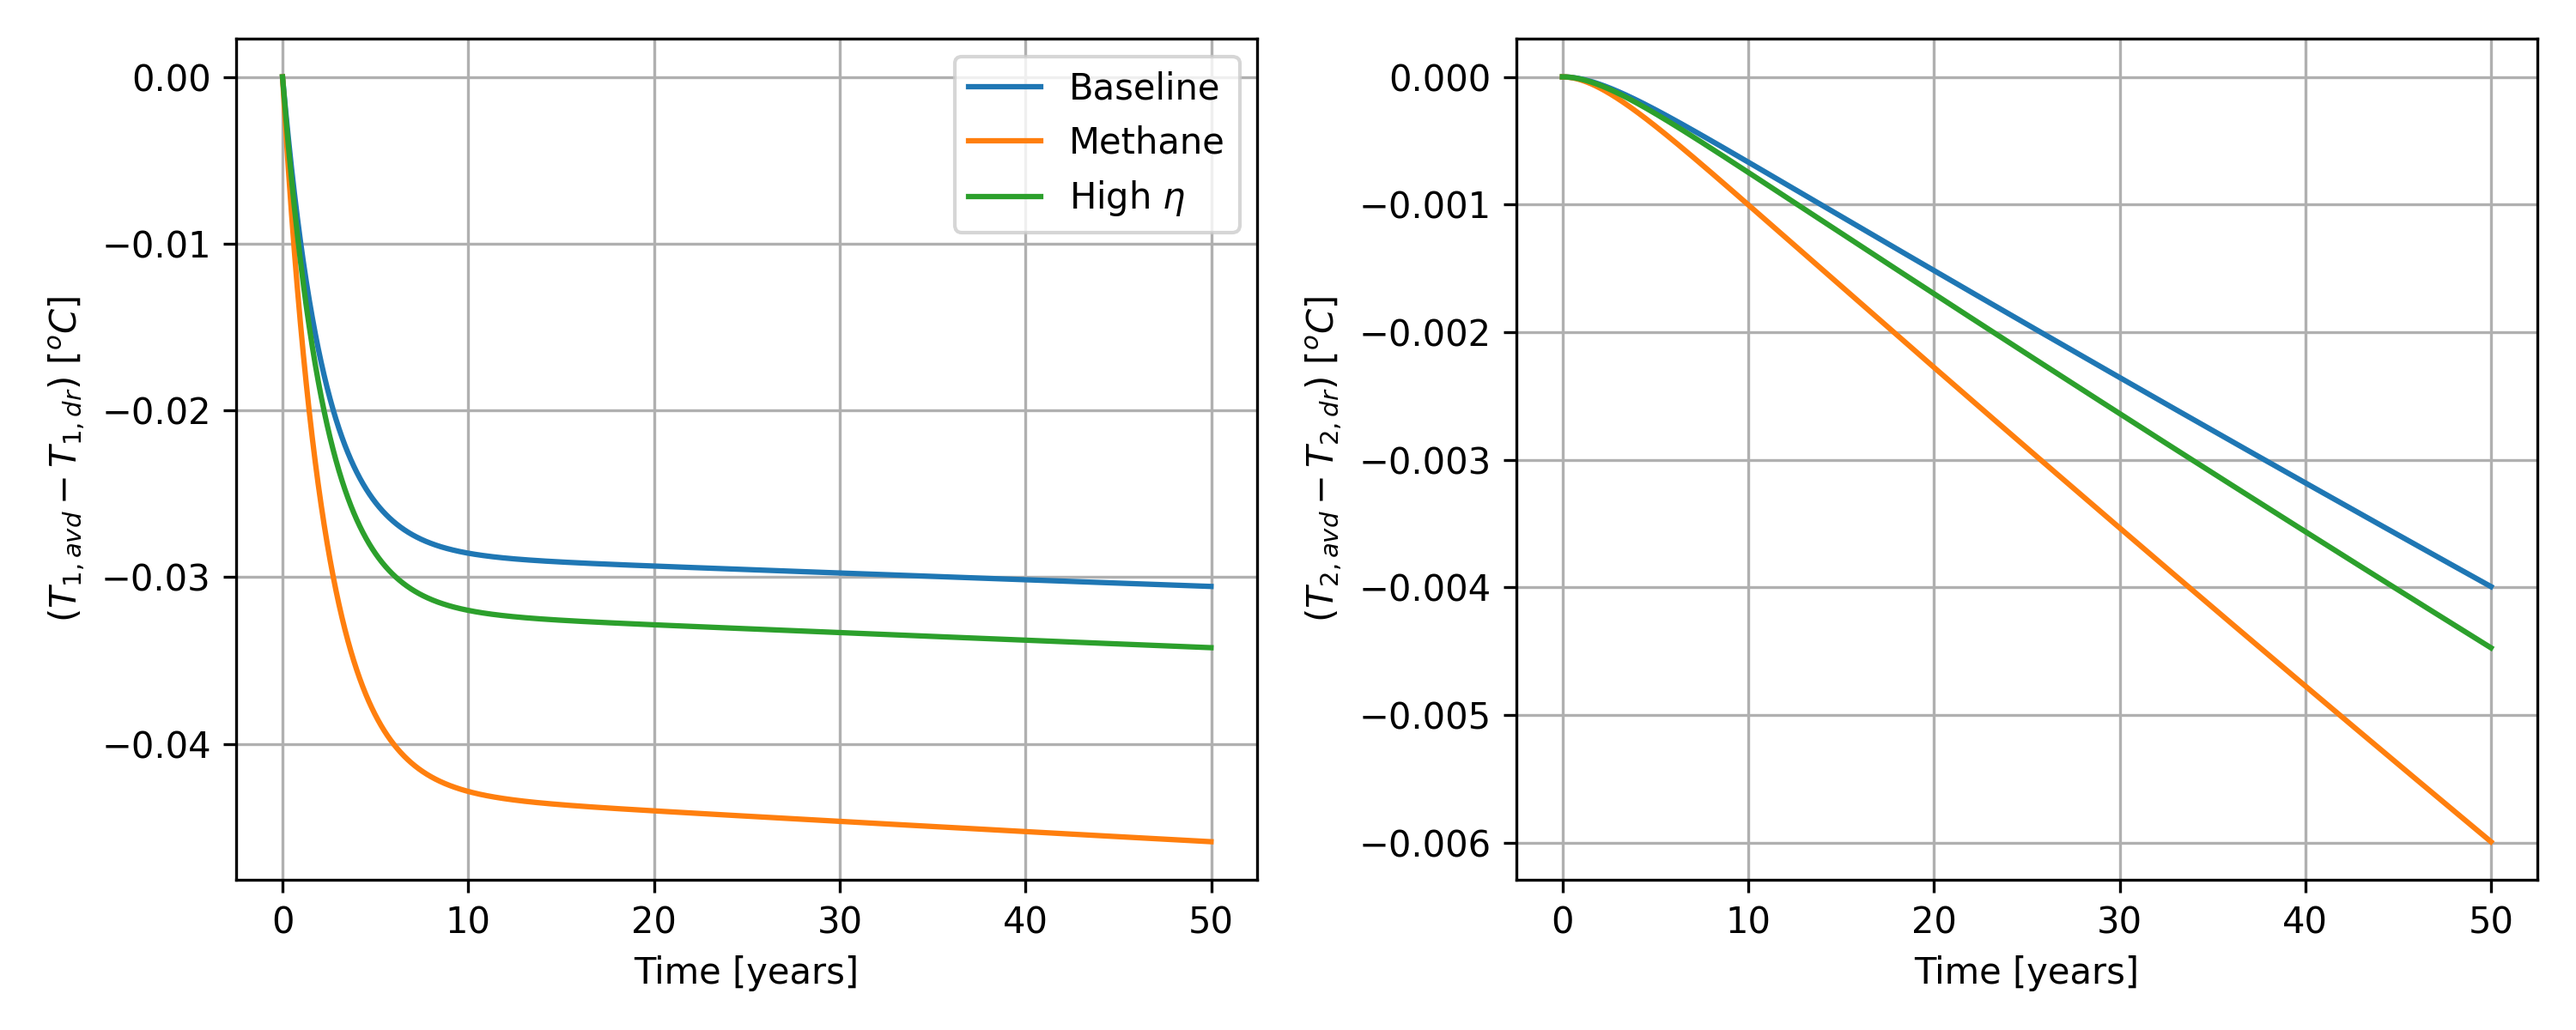
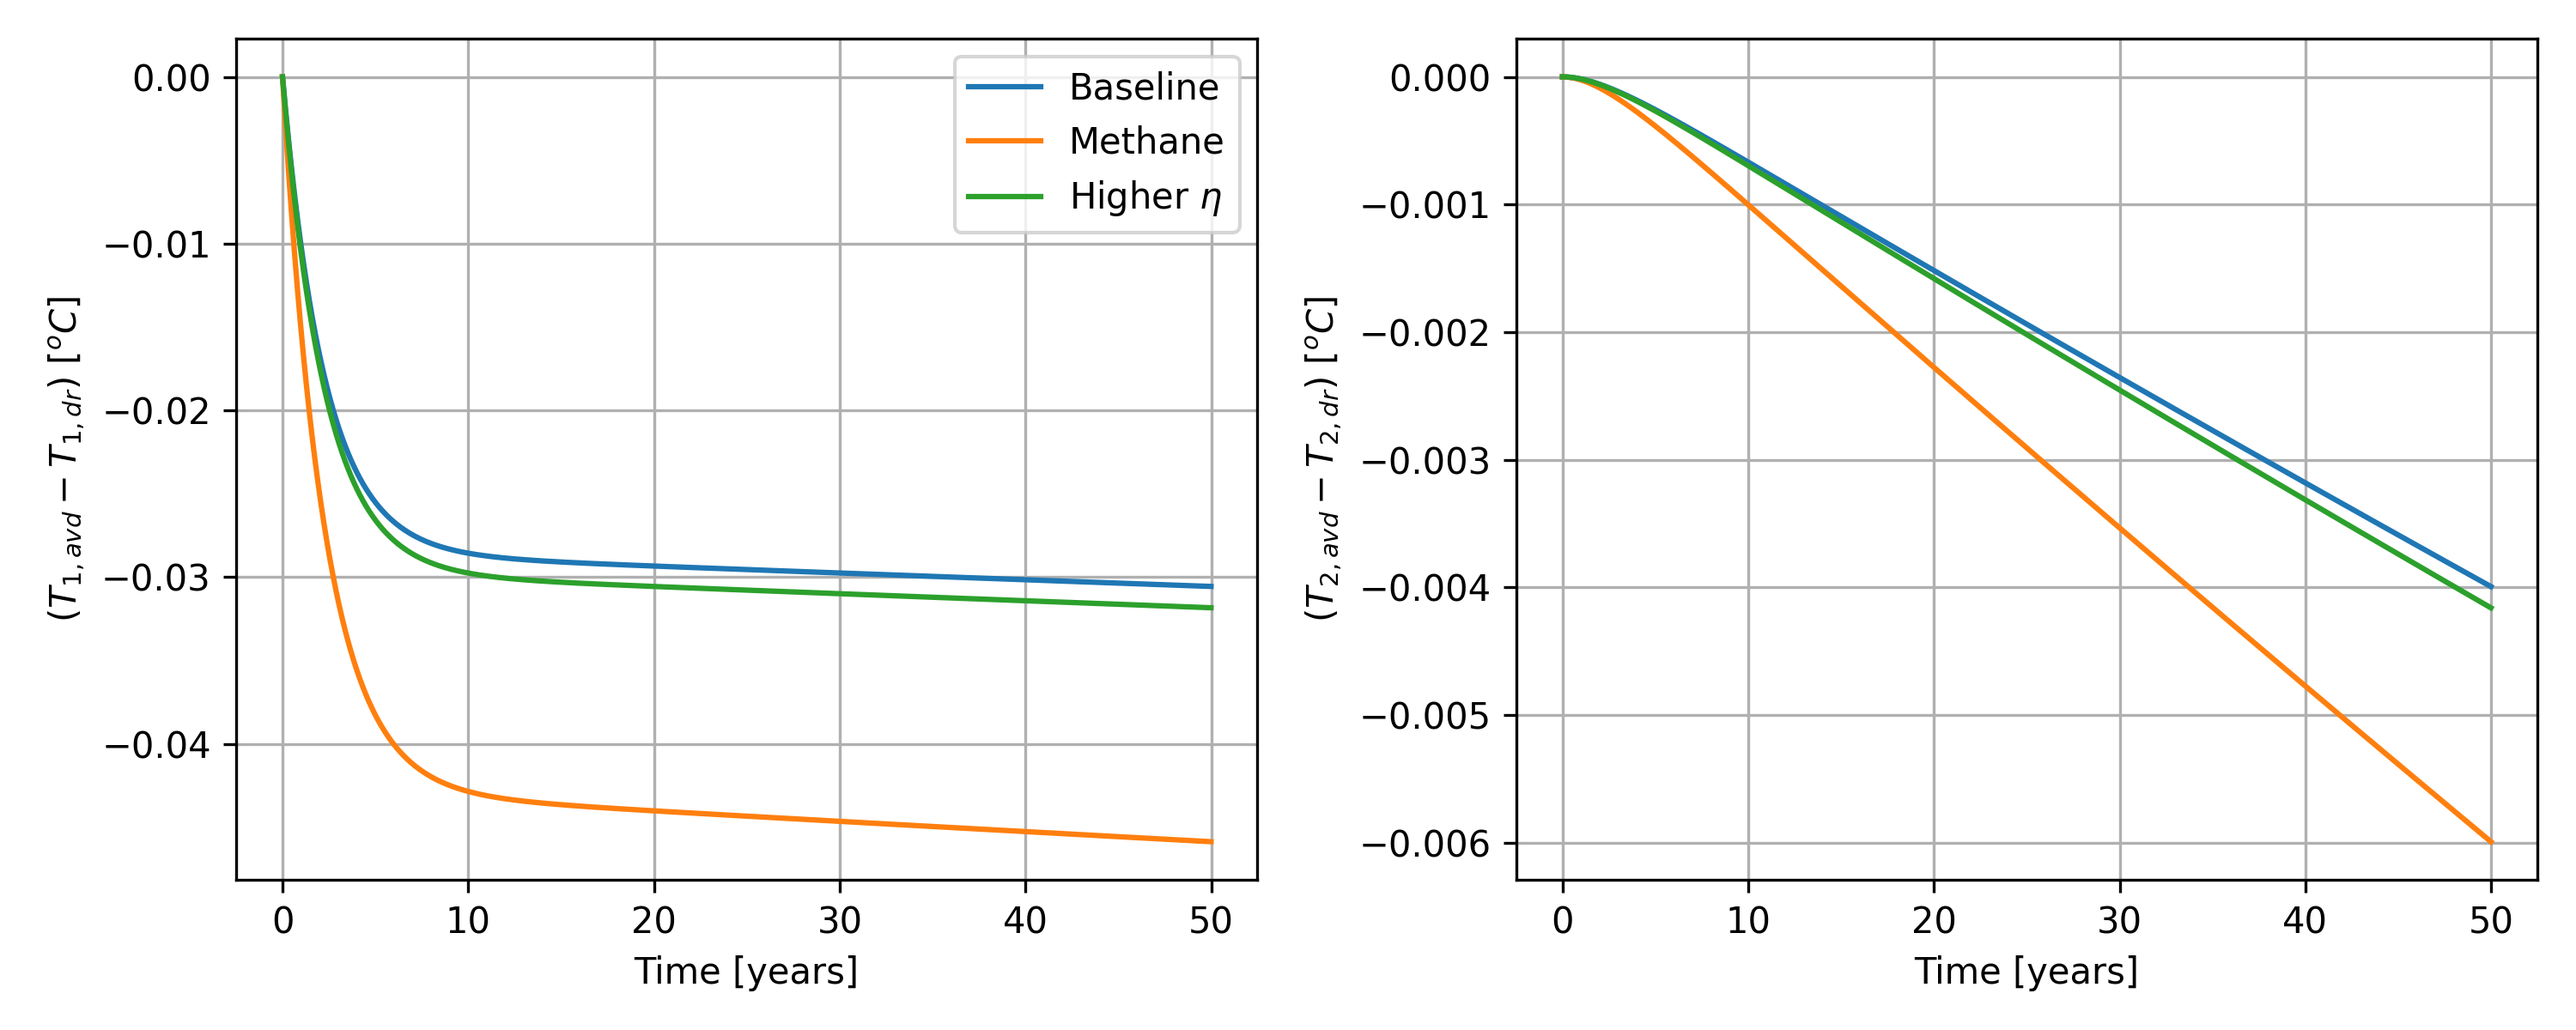
worst report ive ever written

diff --git a/IIB/4A7/contrail_avoidance/report.tex b/IIB/4A7/contrail_avoidance/report.tex
@@ -37,6 +37,8 @@
 
 \section{Introduction}
 % evaluate the net climate impact of contrail avoidance
+Understanding the role of aviation on climate impact is vital as it plays a significant contribution to global warming.
+Simple models can provide insight into large scale effects on climate and will be used here to analyse the effectiveness of contrail avoidance. 
 
 \section{Objectives}
 
@@ -49,7 +51,7 @@
 \subsection{Cases}
 
 \begin{itemize}
-    \item Baseline case, contrail avoidance with current aircraft fleet
+    \item Baseline case, contrail avoidance with current aircraft fleet.
     \item If the aircraft fleet is assumed to instead be fueled by liquified natural gas (LNG), which is taken to be methane
     \item If the gas turbines powering the fleet have a higher thermal efficiency (by an amount of your choosing) 
 \end{itemize}
@@ -64,9 +66,10 @@ The kerosene fuel burned by aircraft contains a mixture of alkanes of varying ca
 The combustion of each of these alkanes can be weighted by concentration to obtain an overall
 emissions index of 3.15 in units mass of $CO_2$ per mass of kerosene fuel burned.
 To get the total mass of fuel burn its required to know the flight paths and fuel burn rates for all aircraft.
-This simply wasn't possible for all aircraft and times and so a months commercial flights dataset from EUROCONTROL [?] was used with a smaller list of aircraft fuel burn rates (kg/km) from wikipedia [?].
+This simply wasn't possible for all aircraft and times and so a months commercial flights dataset from EUROCONTROL [?] was used with a smaller list of aircraft cruise fuel burn rates (kg/km) from wikipedia [?].
 A correction factor was used to extrapolate the mass of fuel burned for unknown aircraft which was the ratio of total distance flown by all aircraft to aircraft of known fuel burn rate.
 The CO2 emissions from flight was then estimated to be 0.31 Gt/Year.
+Avoidance will come at a cost of an additional 1\% fuel consumption, compared to direct flight passing through the contrails.
 
 The radiative forcing due to aircraft emissions of greenhouse gases can be estimated using the following simplified method.
 In literature common units for carbon coming into or going out of the atmosphere is billions of tons of carbon per year ($\text{GtCyr}^{-1}$)
@@ -85,12 +88,14 @@ Radiative forcing can be estimated using a relation by G. Myhre \cite{rf_greenho
 This term adds a nonlinearity to the system of equations and is the reason for solving them numerically.
 
 \begin{equation}
-    \text{RF}_{\text{CO}_2} = 5.35 \ln \left( \frac{C}{C_0} \right)
+    \text{RF}_{\text{CO}_2} = 5.35 \ln \left( \frac{C}{C_0} \right) \label{eq:rfco2}
 \end{equation}
+
+Additional net radiative forcing due to NOx emissions is estimated by D.S. Lee et al. at $17.5mW/m^2$
 
 \subsection{Contrails}
 
-The radiative forcing due to contrails is extrapolated from the work of D.S. Lee et al. \cite{contrail_radiative_forcing}.
+The radiative forcing due to contrails is also taken from the work of D.S. Lee et al. \cite{contrail_radiative_forcing}.
 An effective radiative forcing is taken as 57.4 mWm$^{-2}$.
 
 
@@ -111,20 +116,22 @@ The values of these are set in table \ref{tab:temp_model_params}.
 
 \begin{table}[H]
     \centering
-    \begin{tabular}{ccc}
+    \begin{tabular}{cccc}
         \hline
-        Parameter & Value & Unit \\
+        Parameter & Value & Unit & Source\\
         \hline
-        $T_0$ & 288 & $^\circ K$ \\
-        $\lambda$ & 1.0 & $W/m^2K$ \\
-        $k_m$ & 1.0 & $W/m^2K$ \\
-        $C_1$ & $7.4\times 10^{22}$ & J/K \\
-        $C_2$ & $5.3\times 10^{24}$ & J/K \\
+        $T_0$ & 288 & $^\circ K$ & \\
+        $\lambda$ & 1.0 & $W/m^2K$ & \\
+        $k_m$ & 1.0 & $W/m^2K$ & \\
+        $C_1$ & $7.4\times 10^{22}$ & J/K & $\rho c_p A_o \cdot 50$  \\
+        $C_2$ & $5.3\times 10^{24}$ & J/K & $\rho c_p A_o \cdot (D_o - 50) \footnotemark $\\
         \hline
     \end{tabular}
     \caption{Temperature model parameters}
     \label{tab:temp_model_params}
 \end{table}
+
+\footnotetext{$A_o$ is area of earths oceans, $D_o$ is average ocean depth}
 
 AGWP can quantify cumulative radiative forcing.
 AGTP can quantify the cumulative impact of increased temperatures such as changes in ecosystems and sea levels.
@@ -141,7 +148,7 @@ This means a smaller emissions penalty of additional fuel consumption by avoidin
 
 The Schmidt-Appleman criterion predicts contrails form if the mixture of exhaust gases and ambient air
 transiently reaches or surpasses saturation with respect to liquid water.
-It can be shown that the gradient of the mixing line is proportional to the $H_2O$ emissions index (ratio of mass $H_2O$ released per kg fuel burned) and inversely proportional to $LCV$ \ref{eq:SAC_gradient}.
+It can be shown that the gradient of the mixing line is proportional to the $H_2O$ emissions index (ratio of mass $H_2O$ released per kg fuel burned) and inversely proportional to $LCV$ (Equation \ref{eq:SAC_gradient}).
 Methane has a slightly higher calorific value $LCV$ ($50MJ/kg$) than kerosine ($43MJ/kg$) however the water vapour emissions index of methane (2.25) is significantly higher than kerosine (1.29).
 By aligning this increased gradient to the saturation curve shows that contrails can form at higher temperatures.
 Hence, more contrails form and cause a larger net radiative forcing making their avoidance more important.
@@ -150,7 +157,7 @@ However, to estimate the increased radiative forcing, the previous value by D.S.
 of mixing line gradients.
 
 \begin{equation}
-    G = \frac{P EI_{H_2O} c_p}{\epsilon LCV (1-\eta)} \label{eq:SAC_gradient}
+    G = \frac{P \cdot EI_{H_2O} \cdot c_p}{\epsilon \cdot LCV \cdot (1-\eta)} \label{eq:SAC_gradient}
 \end{equation}
 
 Where P is static pressure, $c_p$ is specific heat capacity, $\epsilon = M_{H_2O}/M_{air} = 0.622$, $LCV$ is lower calorific value, and $\eta$ is thermal efficiency.
@@ -161,6 +168,8 @@ A higher thermal efficiency reduces amount of fuel required for a flight, reduci
 However, it also reduces the term $(1-\eta)$ which G is inversely proportional and so the SAC mixing curve gradient increases.
 Again this means that more contrails form and so avoidance may be more worthwhile for aircraft of higher thermal efficiency.
 
+An increase in thermal efficiency from 0.5 to 0.52 will be considered.
+This may seem very small but actually represents a significant advancement from current technology.
 To estimate the increased radiative forcing the same technique as before where the value by D.S. Lee et al. was multiplied by the ratio
 of mixing line gradients.
 
@@ -170,13 +179,22 @@ of mixing line gradients.
 Many assumptions and simplifications were made to perform the above analysis.
 The validity of these are discussed with reference to more advanced models.
 
-\subsubsection{Models}
+Emissions
+\begin{itemize}
+    \item Kersoine fuel is free of impurities and has an CO2 emissions index of 3.15
+    \item Emissions from production of fuel not considered but could be significant.
+    \item Flight data for the month of June 2020 can be extrapolated to future annual flights and will remain the same (ie no growth of aircraft fleet).
+    \item Fuel burn rate during takeoff, landing and other control sequences is equal to cruise.
+    \item Aircraft of unknown fuel burn rates have a similar average rate to the set of known aircraft.
+    \item Emissions from military and space agencies are small compared to civil flight.
+    \item The 'one tank model' by R. H. Socolow et al. is not accurate when C(t) is stabilized or nearly stabilized \cite{co2_modelling}.
+\end{itemize}
 
-The 
-A number of assumptions were made in the calculation of fuel burn
-Liquid natural gas only assumed to be methane
-
-\subsubsection{Values}
+Radiative forcing and temperature modelling.
+\begin{itemize}
+    \item The equation to calculate radiative forcing from CO2 concentration in the atmosphere is given by equation \ref{eq:rfco2}.
+    \item The radiative forcing for contrail formation scales with gradient of SAC mixing line gradient, G.
+\end{itemize}
 
 % a list of all referenced models used in the report
 % full description of model assumptions, limitations, and validation
@@ -197,21 +215,52 @@ Liquid natural gas only assumed to be methane
 \begin{figure}[H]
     \centering
     \includegraphics[width=0.8\textwidth]{figures/model.png}
-    \caption{Model results for linearly decreasing emissions to net zero by 2050}
+    \caption{Model results for linearly decreasing CO2 emissions to 0 by 2050}
+    \label{fig:model}
 \end{figure}
-
 
 \begin{figure}[H]
     \centering
-    \includegraphics[width=0.9\textwidth]{figures/avoidance_comparison.png}
-    \caption{Impact of global contrail avoidance for the various cases}
+    \includegraphics[width=0.8\textwidth]{figures/case_comparison.png}
+    \caption{Impact for cases of different aircraft fleet fuel and efficiency compared to current fleet}
+    \label{fig:case_comparison}
+\end{figure}
+
+\begin{figure}[H]
+    \centering
+    \includegraphics[width=0.8\textwidth]{figures/avoidance_comparison.png}
+    \caption{Impact of global contrail avoidance for the various cases at 1\% additional fuel consumption. Shallow ocean reservoir on the left, and deep ocean on the right. Avoidance temperature difference is respective to same case.}
+    \label{fig:avoidance_comparison}
 \end{figure}
 
 
 \section{Discussion}
 % discussion of results whatever they look like
 
+Figure \ref{fig:model} shows a linear decreasing emissions to 0, below $E_{stable}$, and hence different to a Socolows wedge.
+The carbon concentration doesnt stabilize at this stationary point and so this models assumption is valid.
+As expected the shallow ocean temperature rises significantly more than the deep, $1.2^\circ C$.
+
+Figure \ref{fig:case_comparison} shows very small reductions in temperatures for different aircraft fleet with different fuel and higher efficiency.
+This shows that the benefit of reduced emissions is significantly reduced by the increased number of contrails formed.
+The methane fuel does make more of an impact than the 2\% increase in efficiency which is expected.
+
+Figure \ref{fig:avoidance_comparison} shows the impact of contrail avoidance for the different cases.
+It can be seen that contrail avoidance is most effective for aircraft using methane fuel.
+However, this is likely due to the fact that contrails produced by methane fuel occur at lower temperature and hence occur more often.
+This means that a larger than 1\% fuel consumption 
+
+Future work could involve using precise weather data with pycontrails to determine if a given flight path is worth avoiding.
+This could involve creating modified flight paths at different altitudes to high humidity/ low temperature regions.
+Additionally the Poll Schuman model could be used to more accurately predict fuel burn rates and emissions.
+However, in these more detailed, flight specific methods, accuracy is lost over large scales so the models presented here are still useful for large scale analysis.
+
 \section{Conclusion}
+
+This report evaluated the net climate impact of contrail avoidance under various scenarios, including the use of alternative fuels and improved thermal efficiency in aircraft engines.
+The simplified models, while constrained by assumptions and limitations, provided insights into the effectiveness of contrail avoidance for the different cases.
+Future work should integrate real-world weather data and advanced contrail modeling tools like pycontrails to develop specific flight paths for avoidance.
+Additionally, considering the full lifecycle emissions of fuels and their sourcing impacts could provide a more complete understanding of their climate impacts.
 
 \section{Appendix}
 
@@ -220,6 +269,13 @@ Liquid natural gas only assumed to be methane
     \includegraphics[width=0.7\textwidth]{figures/DSLee_ERFtable.jpg}
     \caption{Table of effective radiative forcing (ERF) in $mW/m^2$ by D.S.Lee et al. \cite{contrail_radiative_forcing}}
     \label{fig:rf_table}
+\end{figure}
+
+\begin{figure}[H]
+    \centering
+    \includegraphics[width=0.99\textwidth]{figures/contrail_map.png}
+    \caption{Map of contrails over US produced using CoCiP model provided in pycontrails library \cite{pycontrails}}
+    \label{fig:contrail_map}
 \end{figure}
 
 \begin{thebibliography}{9}
@@ -241,15 +297,11 @@ Liquid natural gas only assumed to be methane
     \emph{The contribution of global aviation to anthropogenic climate forcing for 2000 to 2018}
     Atmospheric Environment, 2020
 
-    \bibitem{lagentrainment}
-    Green J E, Weeks D J and Brooman J W F,
-    \emph{Prediction of turbulent boundary-layers and wakes in compressible flow by a lag-entrainment method.}
-    ARC
+    \bibitem{pycontrails}
+    Marc Shapiro et al.
+    \emph{pycontrails: Python library for modelling aviation climate impacts}
+    Version v0.54.3 Updated 21 November 2024
 
-    \bibitem{esdu}
-    ESDU 99032
-    \emph{VGK Method for Two-Dimensional Aerofoil Sections. Part 5. Design to Specified Upper Surface Distribution}
-  
 \end{thebibliography}
 
 \end{document}

diff --git a/IIB/4A7/contrail_avoidance/models/simple.py b/IIB/4A7/contrail_avoidance/models/simple.py
@@ -64,7 +64,7 @@ def plot_model(years = 25):
     E[:25 * 100] = 37.4 * np.linspace(1, 0, 25 * 100) # Gt C / year for 100 years
     time, C, T = run_model(E, years, additional_forcing)
 
-    fig, ax = plt.subplots(1, 2, figsize=(8, 4))
+    fig, ax = plt.subplots(1, 2, figsize=(10, 4))
 
     ax[0].plot(time, T[:, 0]-273.15, label=f"Shallow ocean reservoir")
     ax[0].plot(time, T[:, 1]-273.15, label=f"Deep ocean reservoir")
@@ -97,7 +97,7 @@ def methane_as_fuel_plot(fig, ax, years, additional_fuel = 0.01):
 
     P = 26500 # 33000ft
     cp = 1001 # J/kgK at 33000 ft
-    eta = 0.72
+    eta = 0.5
     epsilon = 0.622
 
     G_kerosine = P * EI_H2O_kerosine * cp / (epsilon * LCV_kerosine * (1-eta))
@@ -108,10 +108,10 @@ def methane_as_fuel_plot(fig, ax, years, additional_fuel = 0.01):
     base_forcing = 57.4e-3
     additional_forcing = base_forcing * G_methane / G_kerosine
 
-    E[:] = 37.4 # Gt C / year for 100 years
+    E[:] = 37.4 + 0.31 * (EI_CO2_methane / EI_CO2_kerosine - 1)# Gt C / year for 100 years
     _, C_norm_methane, T_norm_methane = run_model(E, years, additional_forcing)
 
-    E[:] = 37.4 + additional_fuel * 0.31 * EI_CO2_methane / EI_CO2_kerosine  # Gt C / year for 100 years
+    E[:] = E[:] = 37.4 + 0.31 * ((1 + additional_fuel) * EI_CO2_methane / EI_CO2_kerosine - 1)  # Gt C / year for 100 years
     time, C_avod_methane, T_avod_methane = run_model(E, years, 0)
 
     T = T_avod_methane - T_norm_methane
@@ -178,8 +178,8 @@ def higher_thermal_efficiency_plot(fig, ax, years, additional_fuel = 0.01):
 
     P = 26500 # 33000ft
     cp = 1001 # J/kgK at 33000 ft
-    eta_HI = 0.75
-    eta_LO = 0.72
+    eta_HI = 0.52
+    eta_LO = 0.5
     epsilon = 0.622
 
     G_HI = P * EI_H2O_kerosine * cp / (epsilon * LCV_kerosine * (1-eta_HI))
@@ -192,10 +192,10 @@ def higher_thermal_efficiency_plot(fig, ax, years, additional_fuel = 0.01):
     base_forcing = 57.4e-3
     additional_forcing = base_forcing * G_HI / G_LO
 
-    E[:] = 37.4 # Gt C / year for 100 years
+    E[:] = 37.4 + 0.31 * (eta_LO / eta_HI - 1) # Gt C / year for 100 years
     _, C_norm_eff, T_norm_eff = run_model(E, years, additional_forcing)
 
-    E[:] = 37.4 + additional_fuel * 0.31  # Gt C / year for 100 years
+    E[:] = 37.4 + 0.31 * ((1 + additional_fuel) * eta_LO / eta_HI - 1)  # Gt C / year for 100 years
     time, C_avod_eff, T_avod_eff = run_model(E, years, 0)
 
     T = T_avod_eff - T_norm_eff
@@ -203,7 +203,7 @@ def higher_thermal_efficiency_plot(fig, ax, years, additional_fuel = 0.01):
 
     #fig, ax = plt.subplots(1, 2, figsize=(8, 4))
 
-    ax[0].plot(time, T[:, 0], label='High $\eta$')
+    ax[0].plot(time, T[:, 0], label='Higher $\eta$')
     
     ax[0].set_xlabel("Time [years]")
     ax[0].set_ylabel("$(T_{1,avd} - T_{1,dr})$ $[^oC]$")
@@ -217,6 +217,82 @@ def higher_thermal_efficiency_plot(fig, ax, years, additional_fuel = 0.01):
 
     return fig, ax
 
+
+def comparison_of_methane_and_efficiency_plot(fig, ax, years):
+
+    LCV_kerosine = 43e6 # J/kg
+    LCV_methane = 50e6
+
+    EI_H2O_kerosine = 1.29
+    EI_H2O_methane = 2.25
+
+    EI_CO2_methane = 2.75
+    EI_CO2_kerosine = 3.15
+
+    P = 26500 # 33000ft
+    cp = 1001 # J/kgK at 33000 ft
+    eta_HI = 0.52
+    eta_LO = 0.5
+    eta = eta_LO
+    epsilon = 0.622
+
+    G_HI = P * EI_H2O_kerosine * cp / (epsilon * LCV_kerosine * (1-eta_HI))
+    G_LO = P * EI_H2O_kerosine * cp / (epsilon * LCV_kerosine * (1-eta_LO))
+
+    E = np.zeros(100 * years)
+
+    print(G_HI / G_LO)
+
+    base_forcing = 57.4e-3
+    additional_forcing = base_forcing * G_HI / G_LO
+
+    E[:] = 37.4 + 0.31 * (eta_LO / eta_HI - 1) # Gt C / year for 100 years
+    _, C_norm_eff, T_norm_eff = run_model(E, years, 0)
+
+    additional_forcing = 57.4e-3
+    E[:] = 37.4 # Gt C / year for 100 years
+    _, C_norm, T_norm = run_model(E, years, 0)
+
+    G_kerosine = P * EI_H2O_kerosine * cp / (epsilon * LCV_kerosine * (1-eta))
+    G_methane = P * EI_H2O_methane * cp / (epsilon * LCV_methane * (1-eta))
+
+    E = np.zeros(100 * years)
+
+    base_forcing = 57.4e-3
+    additional_forcing = base_forcing * G_methane / G_kerosine
+
+    E[:] = 37.4 + 0.31 * (EI_CO2_methane / EI_CO2_kerosine - 1)# Gt C / year for 100 years
+    time, C_norm_methane, T_norm_methane = run_model(E, years, 0)
+
+    T0 = 273.15
+
+    #ax[0].plot(time, T_norm -T0, label='kerosine')
+    ax[0].plot(time, T_norm_methane[:,0] - T_norm[:,0], label='Methane fuel')
+    ax[0].plot(time, T_norm_eff[:,0] - T_norm[:,0], label='Higher $\eta$')
+
+    ax[0].set_ylabel("$(T_{1,case} - T_{1,base})$ $[^oC]$")
+    ax[0].set_xlabel("Time [years]")
+
+    ax[1].plot(time, (C_norm_methane - C_norm) / 2.1)
+    ax[1].plot(time, (C_norm_eff - C_norm) / 2.1)
+
+    ax[1].set_ylabel("$C_{case}-C_{base}$ [ppm]")
+    ax[1].set_xlabel("Time [years]")
+
+
+    fig.tight_layout()
+
+    return fig, ax
+
+fig, ax = plot_model(25)
+
+fig, ax = plt.subplots(1, 2, figsize=(10, 4))
+fig, ax = comparison_of_methane_and_efficiency_plot(fig, ax, 25)
+ax[0].legend()
+ax[0].grid()
+ax[1].grid()
+
+fig.savefig('IIB/4A7/contrail_avoidance/figures/case_comparison.png', dpi=300)
 
 fig, ax = plt.subplots(1, 2, figsize=(10, 4))
 
